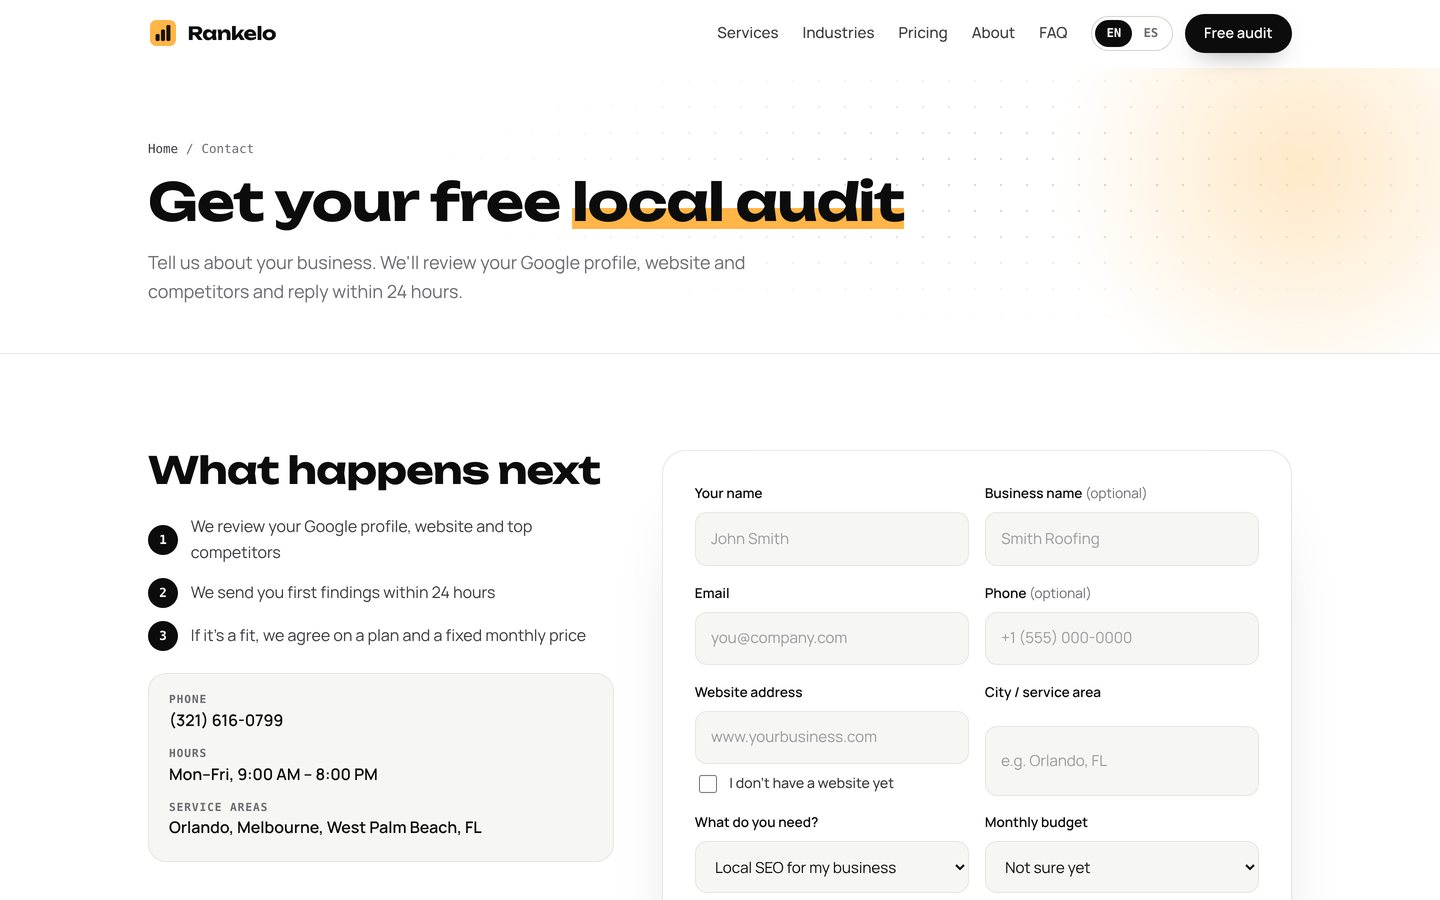
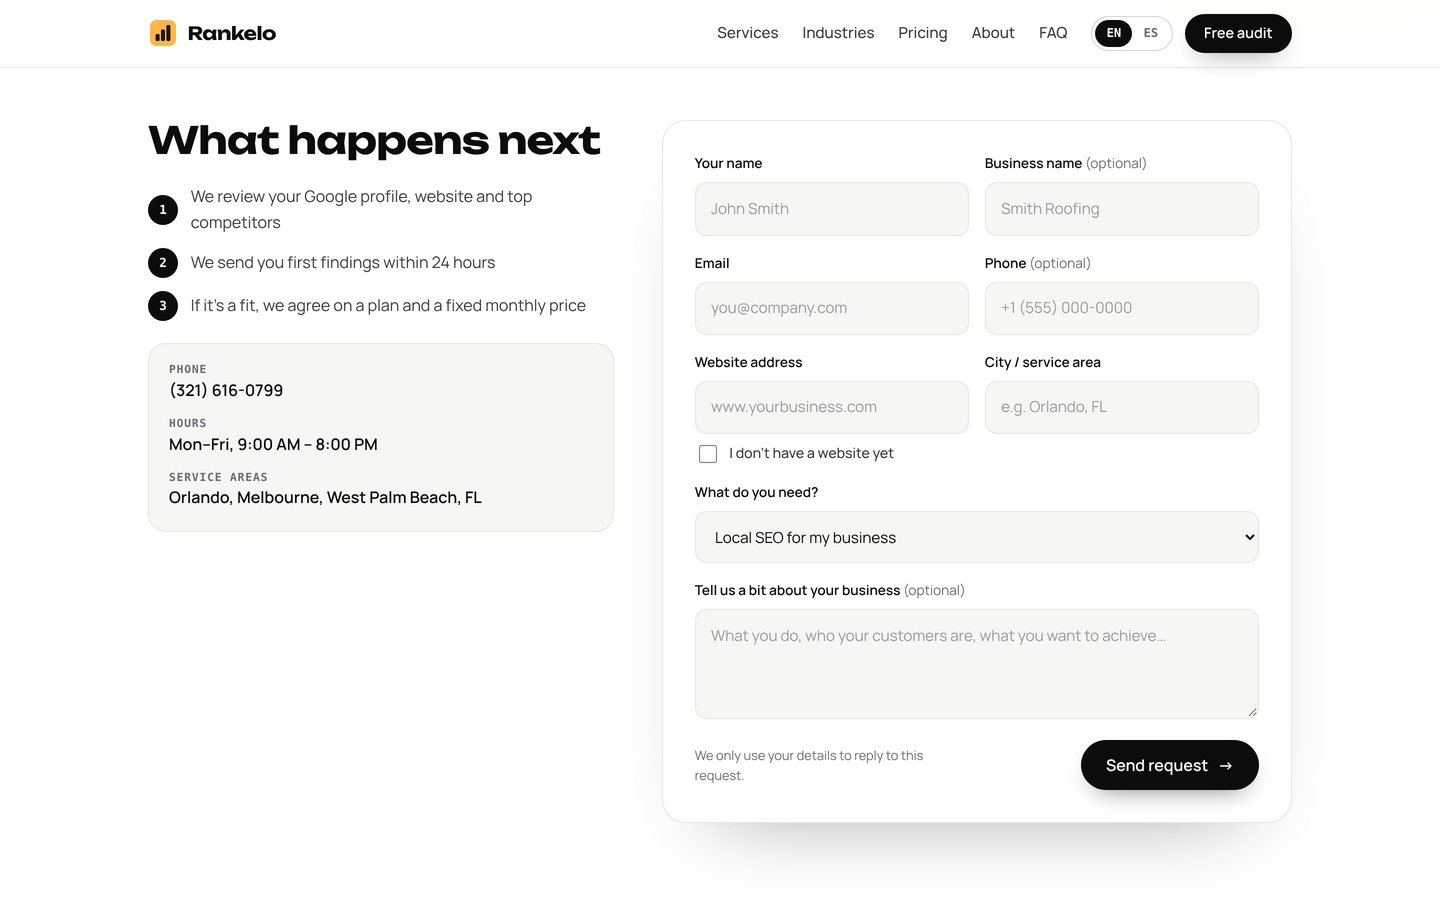
Update site: remove budget field, Need website flag, Google Sheets copy, hero animation stops at #1
Claude-Session: https://claude.ai/code/session_01PkhcxhRM63prhaNrfru71u

diff --git a/src/assets/site.js b/src/assets/site.js
@@ -37,7 +37,7 @@
     var q = $("#qtext"), list = $("#list");
     var you = $(".biz.you", list);
     var rivals = $$(".biz:not(.you)", list);
-    var idx = 0, timer = null;
+    var timer = null;
     var wait = function (ms) { return new Promise(function (r) { timer = setTimeout(r, ms); }); };
     function setItem(item) {
       rivals.forEach(function (el, i) {
@@ -65,22 +65,18 @@
       q.textContent = "";
       for (var i = 1; i <= text.length; i++) { q.textContent = text.slice(0, i); await wait(45 + Math.random() * 55); }
     }
+    // Plays once per page load: type a search, then move the client's business to #1 and stop there.
+    // On pages with several examples (home), a random one is shown on each load.
     async function run() {
       if (!seq.length) return;
-      if (reduce) { setItem(seq[0]); q.textContent = seq[0].q; climb(); return; }
+      var item = seq[Math.floor(Math.random() * seq.length)];
+      setItem(item);
+      if (reduce) { q.textContent = item.q; climb(); return; }
+      q.textContent = "";
       await wait(500);
-      while (true) {
-        var item = seq[idx % seq.length];
-        setItem(item);
-        list.animate([{ opacity: 0 }, { opacity: 1 }], { duration: 350 });
-        await type(item.q);
-        await wait(650);
-        climb();
-        if (seq.length < 2) return;
-        await wait(3400);
-        idx++;
-        await list.animate([{ opacity: 1 }, { opacity: 0 }], { duration: 300, fill: "forwards" }).finished.catch(function () {});
-      }
+      await type(item.q);
+      await wait(650);
+      climb();
     }
     run();
     if (fine && !reduce) {
@@ -155,10 +151,16 @@
     if (!/^[^\s@]+@[^\s@]+\.[^\s@]+$/.test(String(fd.get("email") || "").trim())) { err("email", t("err_email")); ok = false; first = first || "f-email"; }
     if (!nosite.checked && !site.value.trim()) { err("site", t("err_site")); ok = false; first = first || "f-site"; }
     if (!ok) { $("#" + first).focus(); return; }
-    fd.set("no_website", nosite.checked ? "yes" : "no");
+    fd.set("need_website", nosite.checked ? "yes" : "no");
     fd.set("page", location.pathname);
     busy(true);
     if (!LIVE) { setTimeout(function () { showDone(true); }, 700); return; }
+    // Copy of the request to Google Sheets (Apps Script web app). Fire-and-forget: email is the source of truth.
+    var sheetUrl = form.getAttribute("data-sheet");
+    if (sheetUrl && !fd.get("botcheck")) {
+      var sp = new URLSearchParams(fd); sp.delete("access_key"); sp.delete("subject"); sp.delete("from_name");
+      try { fetch(sheetUrl, { method: "POST", mode: "no-cors", keepalive: true, body: sp }).catch(function () {}); } catch (_) {}
+    }
     try {
       var r = await fetch("https://api.web3forms.com/submit", {
         method: "POST", headers: { "Content-Type": "application/json", "Accept": "application/json" },

diff --git a/src/assets/site.css b/src/assets/site.css
@@ -336,7 +336,7 @@ details p{color:var(--muted);padding-bottom:1.25rem;max-width:68ch}
 form{display:grid;gap:1.05rem}
 .row{display:grid;grid-template-columns:1fr 1fr;gap:1rem}
 .row>*{min-width:0}
-.field{display:grid;gap:.45rem}
+.field{display:grid;gap:.45rem;align-content:start}
 label{font-size:.85rem;font-weight:600}
 label .opt{color:var(--muted);font-weight:400}
 input,select,textarea{width:100%;font:inherit;font-size:.95rem;color:var(--ink);background:var(--soft);border:1px solid var(--line);border-radius:12px;padding:.85rem .95rem;transition:border-color .25s,box-shadow .25s,background .25s}

diff --git a/src/build.py b/src/build.py
@@ -1,6 +1,6 @@
 """Build the Rankelo static site (EN at /, ES at /es/) into ./out and zip it.
 
-Usage: python3 src/build.py [SITE_URL] [WEB3FORMS_KEY]
+Usage: python3 src/build.py [SITE_URL] [WEB3FORMS_KEY] [SHEET_WEB_APP_URL]
 The Web3Forms access key is passed at build time and is not stored in this repository.
 """
 import json, html, shutil, sys, math
@@ -14,9 +14,10 @@ from niches_v2 import NICHES
 
 SITE = (sys.argv[1] if len(sys.argv) > 1 else "https://rankelo.org").rstrip("/")
 KEY = sys.argv[2] if len(sys.argv) > 2 else "YOUR_WEB3FORMS_KEY"
+SHEET = sys.argv[3] if len(sys.argv) > 3 else ""  # Google Apps Script web app URL (optional)
 OUT = HERE.parent / "dist"
 FONTS = HERE.parent / "fonts"  # Unbounded + Manrope (SIL OFL), used for social preview images
-VER = "8"  # cache-buster for css/js
+VER = "11"  # cache-buster for css/js
 LANGS = ("en", "es")
 e = html.escape
 
@@ -193,7 +194,6 @@ def seq_for(lang, niches):
 def form(lang, niche_name=None, eb=None, h2=None, lead=None, steps=None, side_extra="", sec_id="contact"):
     f = T[lang]["f"]
     svc_opts = "".join(f'<option value="{v}">{e(l)}</option>' for v, l in f["services"])
-    bud_opts = "".join(f'<option value="{e(v)}">{e(l)}</option>' for v, l in f["budgets"])
     niche_in = f'<input type="hidden" name="niche" value="{e(niche_name)}">' if niche_name else ""
     steps_html = ("<ol class=\"olist\">" + "".join(f"<li>{e(s)}</li>" for s in steps) + "</ol>") if steps else ""
     opt = f'<span class="opt">{e(f["opt"])}</span>'
@@ -207,7 +207,7 @@ def form(lang, niche_name=None, eb=None, h2=None, lead=None, steps=None, side_ex
   <div class="wrap contact-grid">
     {side}
     <div class="form-card reveal">
-      <form id="lead-form" novalidate>
+      <form id="lead-form" novalidate{f' data-sheet="{e(SHEET)}"' if SHEET else ""}>
         <input type="hidden" name="access_key" value="{e(KEY)}">
         <input type="hidden" name="subject" value="{e(f['subject'])}">
         <input type="hidden" name="from_name" value="Rankelo website">
@@ -224,13 +224,10 @@ def form(lang, niche_name=None, eb=None, h2=None, lead=None, steps=None, side_ex
         </div>
         <div class="row">
           <div class="field"><label for="f-site">{e(f['site'])}</label><input id="f-site" name="website" inputmode="url" placeholder="www.yourbusiness.com">
-            <label class="check" for="f-nosite"><input type="checkbox" id="f-nosite" name="no_website_box"><span>{e(f['nosite'])}</span></label><span class="err" id="e-site"></span></div>
+            <label class="check" for="f-nosite"><input type="checkbox" id="f-nosite"><span>{e(f['nosite'])}</span></label><span class="err" id="e-site"></span></div>
           <div class="field"><label for="f-city">{e(f['city'])}</label><input id="f-city" name="city" autocomplete="address-level2" placeholder="{e(f['city_ph'])}"></div>
         </div>
-        <div class="row">
-          <div class="field"><label for="f-service">{e(f['service'])}</label><select id="f-service" name="service">{svc_opts}</select></div>
-          <div class="field"><label for="f-budget">{e(f['budget'])}</label><select id="f-budget" name="budget">{bud_opts}</select></div>
-        </div>
+        <div class="field"><label for="f-service">{e(f['service'])}</label><select id="f-service" name="service">{svc_opts}</select></div>
         <div class="field"><label for="f-msg">{e(f['msg'])} {opt}</label><textarea id="f-msg" name="message" placeholder="{e(f['msg_ph'])}"></textarea></div>
         <div class="form-foot"><small>{e(f['privacy'])}</small>
           <button class="btn btn-dark" type="submit" id="f-submit"><span>{e(f['submit'])}</span><span class="arr" aria-hidden="true">→</span></button></div>

diff --git a/src/content.py b/src/content.py
@@ -35,9 +35,6 @@ T = {
         city="City / service area", city_ph="e.g. Orlando, FL", service="What do you need?",
         services=[("seo", "Local SEO for my business"), ("site", "New website + Local SEO"),
                   ("redesign", "Redesign + Local SEO"), ("gbp", "Google Business Profile only"), ("unsure", "Not sure yet")],
-        budget="Monthly budget",
-        budgets=[("unsure", "Not sure yet"), ("<500", "Under $500"), ("500-1000", "$500 – $1,000"),
-                 ("1000-2500", "$1,000 – $2,500"), ("2500+", "$2,500+")],
         msg="Tell us a bit about your business", msg_ph="What you do, who your customers are, what you want to achieve…",
         privacy="We only use your details to reply to this request.", submit="Send request", sending="Sending…",
         err_name="Please enter your name.", err_email="Please enter a valid email so we can reply.",
@@ -70,9 +67,6 @@ T = {
         city="Ciudad / zona de servicio", city_ph="p. ej. Orlando, FL", service="¿Qué necesita?",
         services=[("seo", "SEO local para mi negocio"), ("site", "Sitio web nuevo + SEO local"),
                   ("redesign", "Rediseño + SEO local"), ("gbp", "Solo perfil de Google Business"), ("unsure", "Aún no lo sé")],
-        budget="Presupuesto mensual",
-        budgets=[("unsure", "Aún no lo sé"), ("<500", "Menos de $500"), ("500-1000", "$500 – $1,000"),
-                 ("1000-2500", "$1,000 – $2,500"), ("2500+", "Más de $2,500")],
         msg="Cuéntenos un poco sobre su negocio", msg_ph="A qué se dedica, quiénes son sus clientes, qué quiere lograr…",
         privacy="Usamos sus datos solo para responder a esta solicitud.", submit="Enviar solicitud", sending="Enviando…",
         err_name="Escriba su nombre.", err_email="Escriba un correo válido para poder responderle.",
